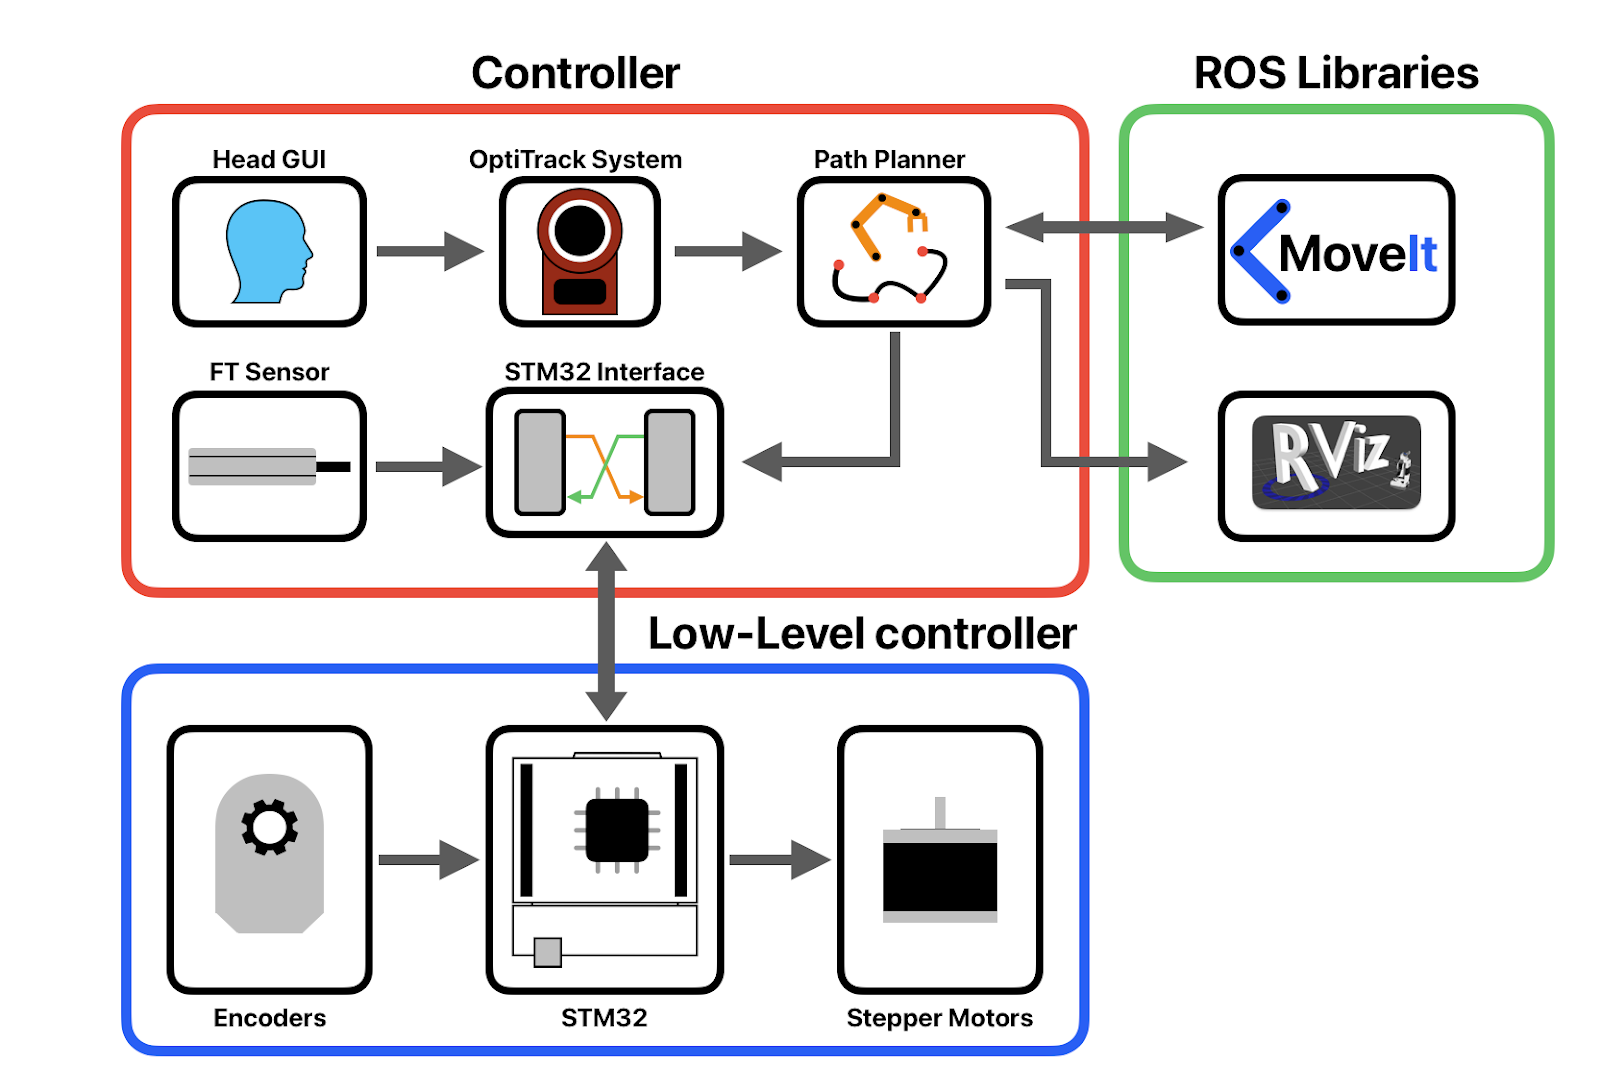
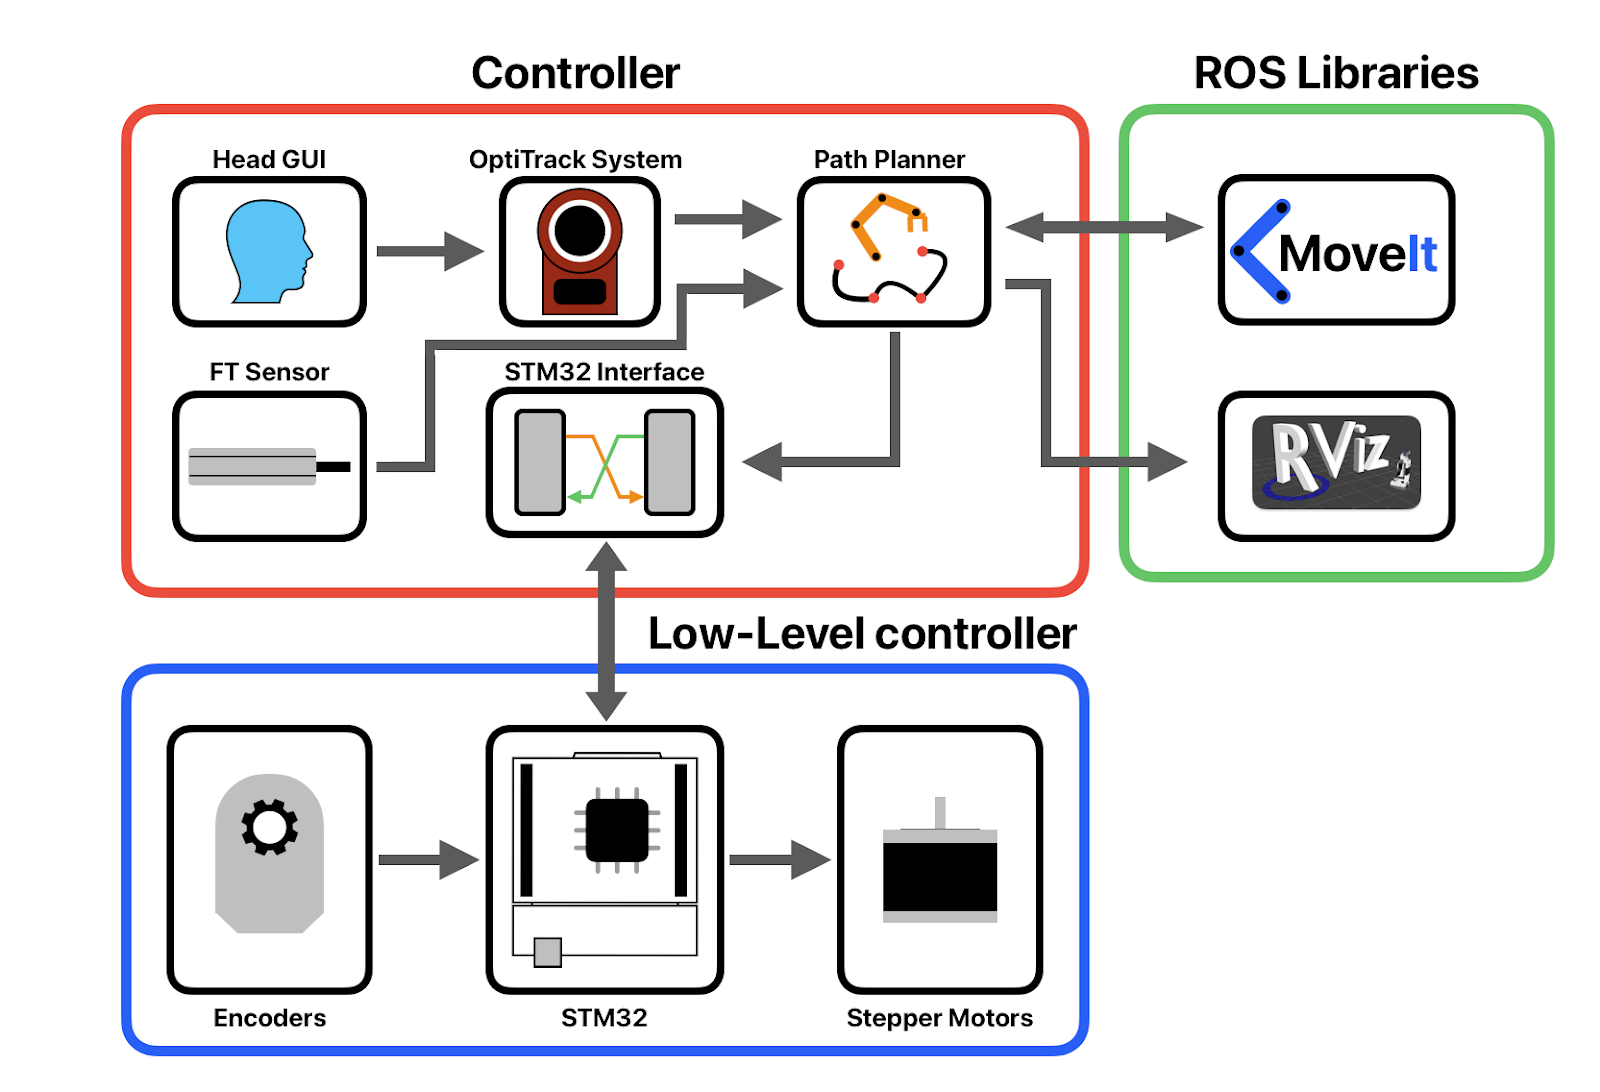
Further website updates

Changed region(s): [[0.25, 0.1868, 0.5, 0.4359]]

diff --git a/index.html b/index.html
@@ -69,6 +69,23 @@
             <div class="subsection" id="software-design"> 
                 <h3> Software </h3>
                 <img src="website/images/software-architecture.png" alt="Software architecture flowchart" class="picture center">
+                <h4> Controller </h4>
+                <p> Runs ROS Noetic on a Ubuntu 20.04 VM. There are five main nodes: </p>
+                <ul>
+                    <li> Head GUI </li>
+                    <li> OptiTrack Receiver </li>
+                    <li> Path planner </li>
+                    <li> STM32 Interface </li>
+                    <li> Force/Torque Receiver </li>
+                </ul>
+                <p> The Head GUI will publish a point cloud, and a selected point.  This data is passed through a TF transform obtained from the OptiTrack node, where the now-transformed point is sent to the path planner, and the point cloud is displayed on RViz. </p>
+
+                <p> The path planner is the most important node.  It takes in sensor data, the desired input, calculates a path, then uses MoveIt to determine the required joint angles.  Finally, it displays that plan on RViz for the user to confirm the trajectory, upon which it will be sent to the low-level controller through the STM32 interface node. </p>
+                
+                <h4> Low-level Controller </h4>
+                <p> The low-level controller runs entirely on the STM32.  It takes in UART commands over USB to drive the motors. </p>
+                <p> For the three prismatic joints of the Cartesian gantry, it runs a PID controller for each motor since those joints have functional encoders (It isn't strictly necessary on the Z axis since it has a lead screw instead of easy to back-drive belts that are on the X and Y axes) </p>
+                <p> For the three revolute joints, it just runs the motors in open-loop since the gear reductions on those joints are relatively high so backdriving is unlikely. </p>
             </div>
         </div>
         <div class="section" id="implementation">
@@ -109,7 +126,7 @@
                     </div>
                     <div class="carousel-card">
                         <img src="website/images/mechanical_implementation/wesley_mount.jpg" alt="Mannequin bracket" class="carousel-image picture">
-                        <div class="carousel-caption"> "Wesley" mount with OptiTrack markers (our mannequin head is named Wesley because Wesley wasn't there when we named it) </div>
+                        <div class="carousel-caption"> "Wesley" mount with OptiTrack markers (our mannequin head is named Wesley because <i>true</i> Wesley wasn't there when we named it) </div>
                     </div>
                     <div class="carousel-card">
                         <img src="website/images/mechanical_implementation/trimetric_back.jpg" alt="Gantry Assembly" class="carousel-image picture">
@@ -131,11 +148,13 @@
             <div class="subsection" id="software-implementation">
                 <h3> Software </h3>
                 <h4> Head GUI </h4>
-                <p> A python GUI allows a user to select head zones.  This ran independently of RVIZ.  Not all points on the head are selectable since the back half is unreachable.  An even point density cloud was achieved with voxel down-sampling.  The GUI transforms the head normal vectors and points to the world frame and publishes them. </p>
                 <img src="website/images/head_gui_demo.gif" alt="Head GUI demo" class="picture center" id="demo-animation">
+                <p> A python GUI allows a user to select head zones.  This ran independently of RVIZ.  Not all points on the head are selectable since the back half is unreachable.  An even point density cloud was achieved with voxel down-sampling.  The GUI transforms the head normal vectors and points to the world frame and publishes them. </p>
                 <div id="head_gui_plot"></div>
-                <i class="caption"> Point cloud data shown with Plotly.js instead of Matplotlib we're using with ROS. </i>
-
+                <i class="caption"> Point cloud data shown with Plotly.js instead of Matplotlib, which we use with ROS. </i>
+                <h4> Path Planner </h4>
+                <h4> STM32 Interface </h4>
+                <h4> STM32 Firmware </h4>
             </div>
         </div>
         <div class="section", id="results"> 
@@ -215,10 +234,30 @@
             <p><code>website</code> - Website assets</p>
         </div>
         <div class="subsection", id="credits">
-            <h3> Credits</h3>
+            <h3> Credits/Thanks</h3>
+            <h4>Project</h4>
+            <ul>
+                <li>Everyone in the Biomimetics Millisystems Laboratory.  In particular:</li>
+                    <ul>
+                        <li> Binghan He </li>
+                        <li> Sareum Kim </li>
+                        <li> Martin Zeng </li>
+                        <li> Daniel Dapula </li>
+                        <li> Ronald Fearing </li>
+                    </ul>
+                <li>EECS C106A Staff</li>
+                <li> TAMS Group - created a <a href="https://github.com/TAMS-Group/tams_wireless_ft">ROS node to interface with the ATI-IA Wireless F/T system</a></li>
+                <li> ROS Packages </li>
+                    <ul>
+                        <li> <a href="https://moveit.ros.org/">MoveIt</a> </li>
+                        <li> <a href="https://wiki.ros.org/rviz">RViz</a> </li>
+                        <li> <a href="https://wiki.ros.org/vrpn_client_ros">vrpn_client_ros</a> </li>
+                    </ul>
+            </ul>
             <h4>Website</h4>
             <ul>
                 <li> Image slideshow code - <a href="https://www.w3schools.com/howto/howto_js_slideshow.asp">W3Schools</a></li>
+                <li> <a href="https://plotly.com/javascript/">Plotly Javascript library</a> </li>
             </ul>
         </div>
     </div>

diff --git a/website/styles/styles.css b/website/styles/styles.css
@@ -1,6 +1,6 @@
 @import url('https://fonts.googleapis.com/css?family=Quicksand');
 
-html,body,p,h1,h2,h3 {
+html,body,p,h1,h2,h3, h4 {
     /* color: white; */
     font-family: Quicksand;
     margin: 0;
@@ -32,10 +32,15 @@ body {
     --text: #FFFFFF;
     --accent: #ffbf00;
     --accent-accent: #ffd65e;
-    --link-text: #5555ff;
+    --link-text: #8989ec;
     /* background-color:var(--bg); */
     min-height: 100vh;
     background: var(--bg);
+}
+
+a {
+    color: var(--link-text);
+    text-decoration: none;
 }
 
 .main {
@@ -105,7 +110,7 @@ body {
     }
 
 #head_gui_plot {
-    width:100%;
+    width:50%;
     aspect-ratio: 1;
     margin: auto;
 }
